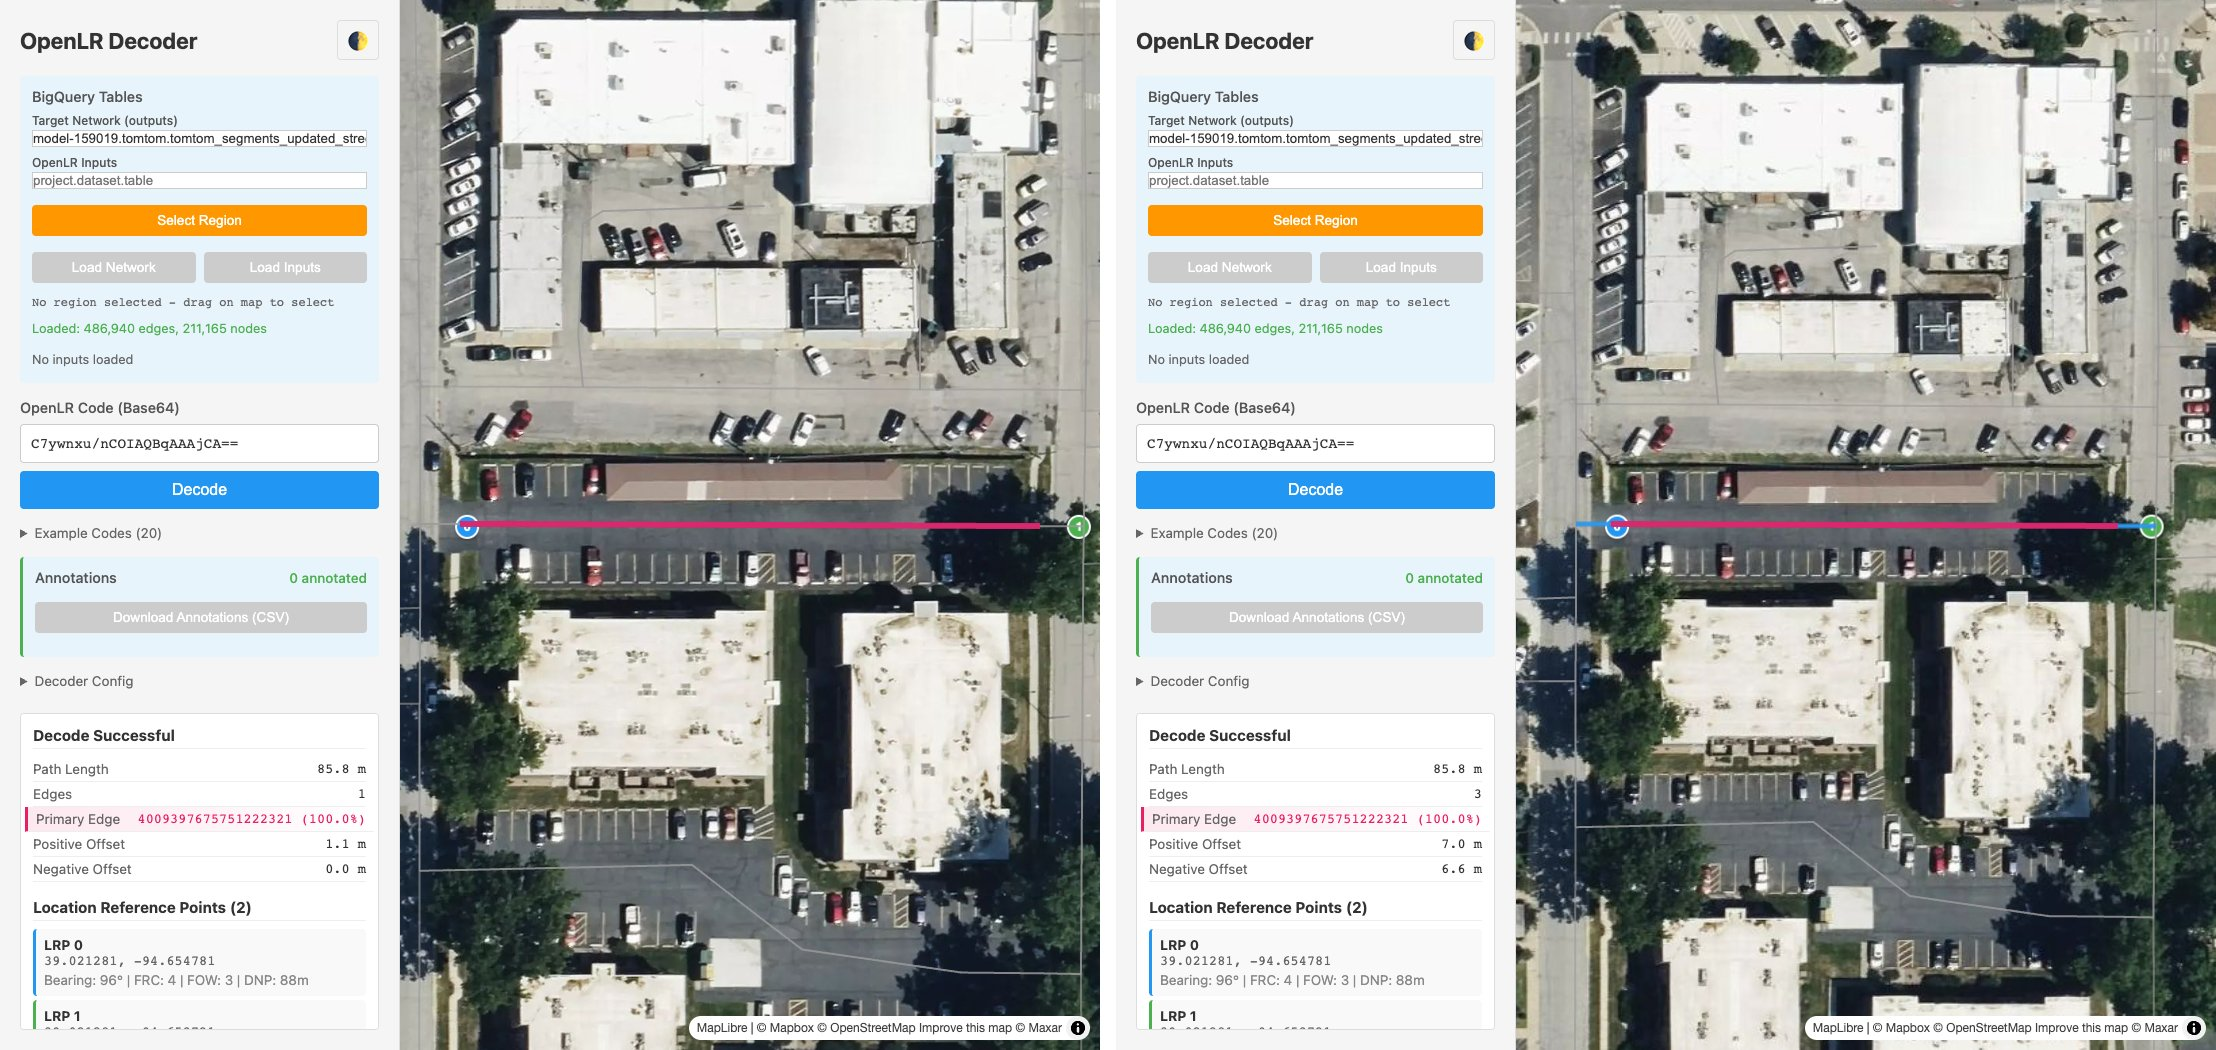
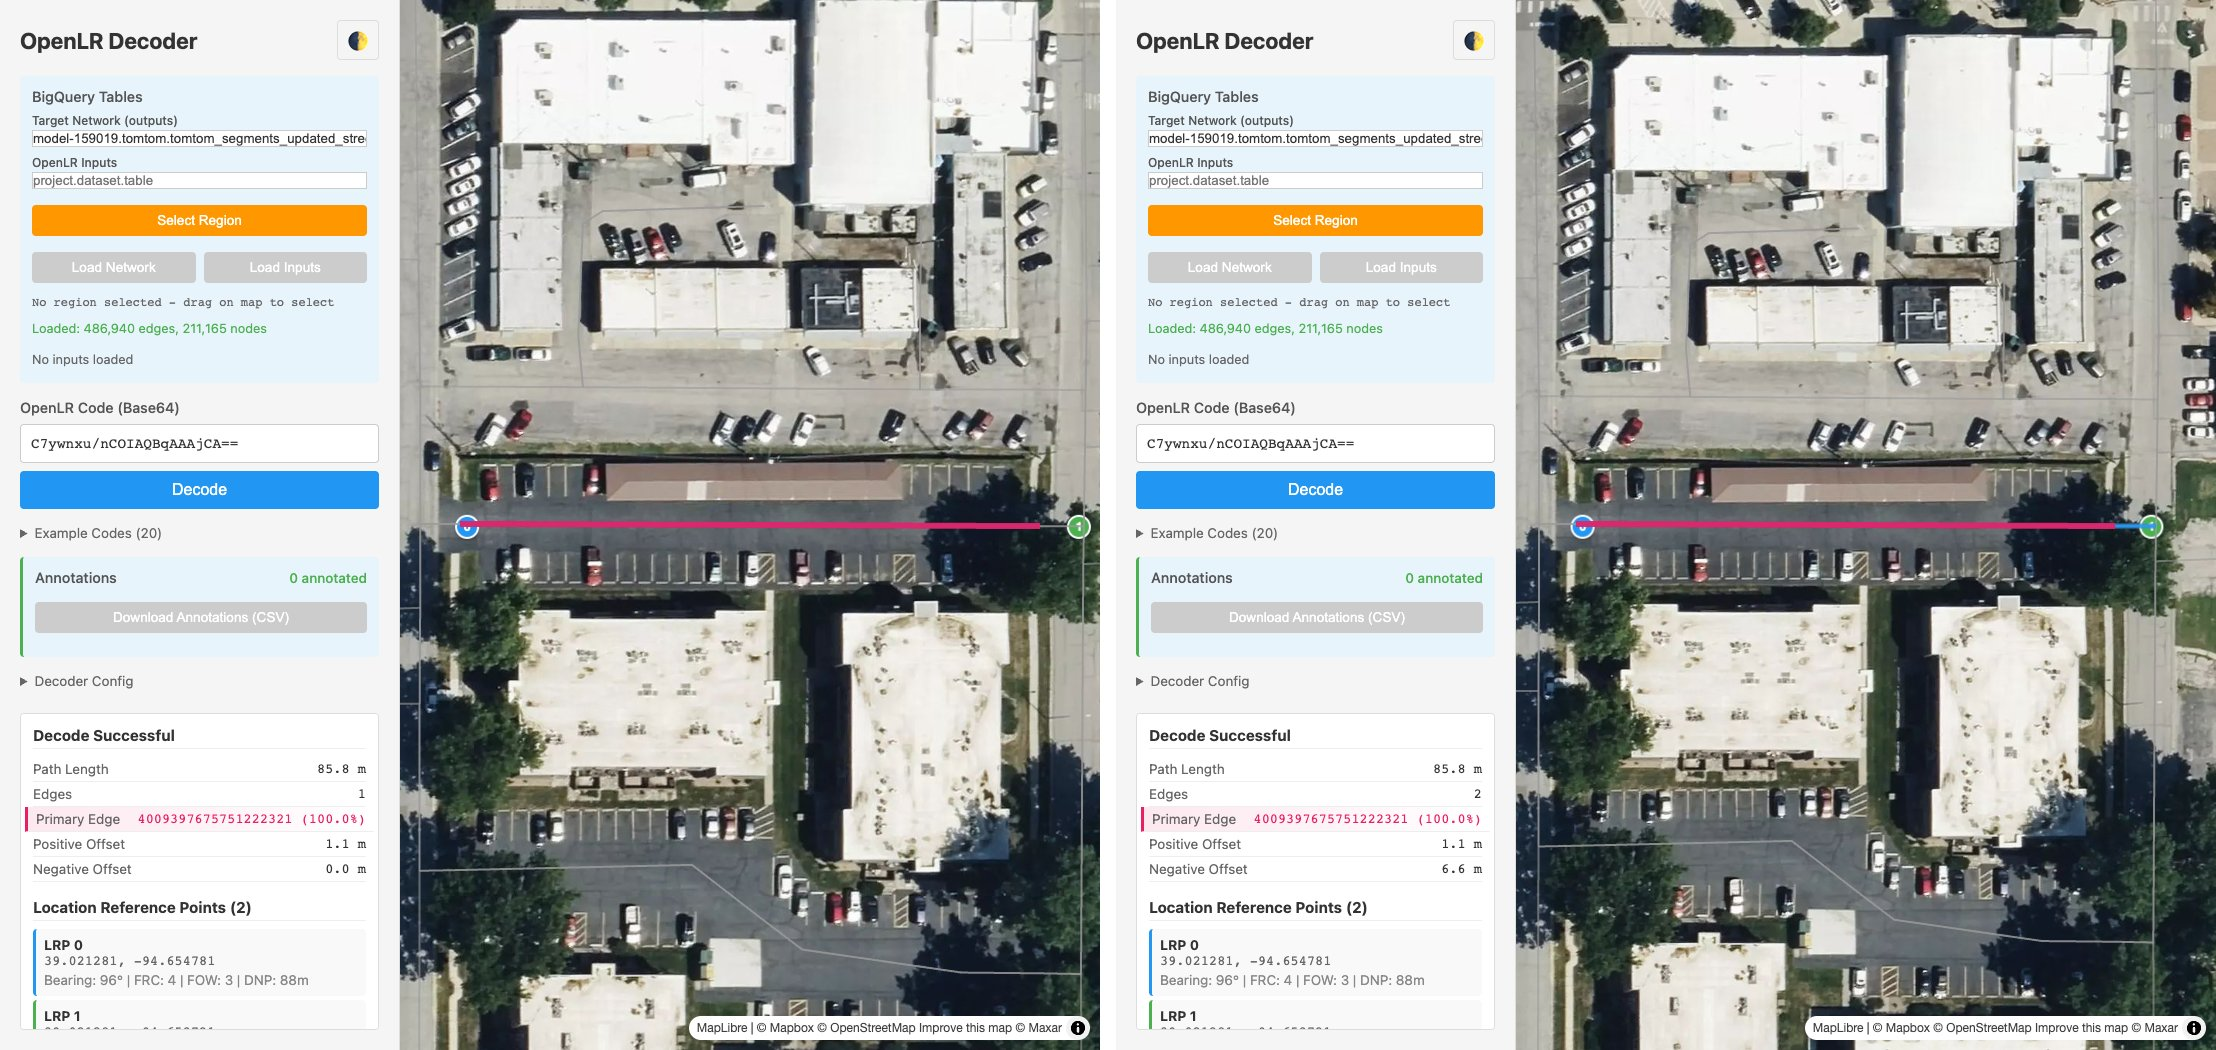
Only snap when the LRP is closer to the new terminal node
Guards the Rule 4 extension against topology asymmetry: when HERE has a
junction our OSM car graph lacks, the LRP sits on what looks to us like
a through-node and extending would overshoot it. Extending only if the
LRP coordinate is nearer the new node than the current one fixes that.

Measured against HERE reference endpoints on the KC corpus (1,257
unguarded extensions): all 704 extensions landing within 5 m of HERE's
endpoint are kept, all 103 that overshot an already-correct node are
dropped, and 419 of 450 extensions moving away from a far-off endpoint
are dropped. 735 extensions remain (618 codes, 1.3%). Aggregate
Hausdorff/Fréchet and decode rate unchanged.

Claude-Session: https://claude.ai/code/session_0162LFLFpwXmgBzigVq8staf

Changed region(s): [[0.685, 0.0, 1.0, 1.0]]

diff --git a/src/decoder.rs b/src/decoder.rs
@@ -429,6 +429,8 @@ impl<'a> Decoder<'a> {
     /// node (Rule 4), the path is extended along the forced continuation to the first
     /// junction and the added length is folded into the corresponding offset, so the
     /// offset-trimmed geometry is unchanged while the edge set covers the whole link.
+    /// The extension is only applied if the LRP coordinate is closer to the new
+    /// terminal node than to the current one (see the guard below).
     fn finalize_path(
         &self,
         path: &mut Vec<EdgeIndex>,
@@ -462,14 +464,37 @@ impl<'a> Decoder<'a> {
             })
             .unwrap_or(0.0);
 
+        // Guard against topology asymmetry (HERE has a junction our OSM car graph
+        // lacks, so a real LRP node looks like a through-node to us): only extend if
+        // the LRP itself is closer to the new terminal node than to the current one.
+        // In genuine stop-short cases the LRP sits at the junction we extend to.
+        let lrp_prefers =
+            |lrp: Point<f64>, old_node: Option<NodeIndex>, new_node: Option<NodeIndex>| match (
+                old_node.and_then(|n| self.network.node(n)),
+                new_node.and_then(|n| self.network.node(n)),
+            ) {
+                (Some(old), Some(new)) => {
+                    lrp.haversine_distance(&new.coord) < lrp.haversine_distance(&old.coord)
+                }
+                _ => false,
+            };
+
         if let Some((tail, added_m)) = self.forward_extension(path, self.snap_cap_m(last_segment)) {
-            path.extend(tail);
-            negative_offset_m += added_m;
+            let old_node = path.last().and_then(|&e| self.network.edge_target(e));
+            let new_node = tail.last().and_then(|&e| self.network.edge_target(e));
+            if lrp_prefers(last_lrp_coord, old_node, new_node) {
+                path.extend(tail);
+                negative_offset_m += added_m;
+            }
         }
         if let Some((head, added_m)) = self.backward_extension(path, self.snap_cap_m(first_segment))
         {
-            path.splice(0..0, head);
-            positive_offset_m += added_m;
+            let old_node = path.first().and_then(|&e| self.network.edge_source(e));
+            let new_node = head.first().and_then(|&e| self.network.edge_source(e));
+            if lrp_prefers(first_lrp_coord, old_node, new_node) {
+                path.splice(0..0, head);
+                positive_offset_m += added_m;
+            }
         }
 
         let frac = |offset_m: f64, edge_idx: Option<&EdgeIndex>| {
@@ -2019,14 +2044,15 @@ mod tests {
         let (network, spatial) = snap_network();
         let decoder = Decoder::new(&network, &spatial);
 
-        // Path e1,e2 ends at N3 (invalid). Last LRP sits at the end of e2.
+        // Path e1,e2 ends at N3 (invalid). Per Rule 4 the encoder placed the last
+        // LRP at the junction N4, 15m further on — our path stopped short.
         let mut path = vec![edge_by_id(&network, 1), edge_by_id(&network, 2)];
         let n1 = network
             .node(network.edge_source(path[0]).unwrap())
             .unwrap()
             .coord;
-        let n3 = network
-            .node(network.edge_target(path[1]).unwrap())
+        let n4 = network
+            .node(network.edge_target(edge_by_id(&network, 3)).unwrap())
             .unwrap()
             .coord;
         let seg = SegmentInfo {
@@ -2034,7 +2060,7 @@ mod tests {
             expected_m: 200.0,
         };
 
-        let offsets = decoder.finalize_path(&mut path, n1, n3, seg, seg);
+        let offsets = decoder.finalize_path(&mut path, n1, n4, seg, seg);
 
         assert_eq!(
             ids(&network, &path),
@@ -2061,8 +2087,8 @@ mod tests {
             .node(network.edge_source(path[0]).unwrap())
             .unwrap()
             .coord;
-        let n3 = network
-            .node(network.edge_target(path[1]).unwrap())
+        let n4 = network
+            .node(network.edge_target(edge_by_id(&network, 3)).unwrap())
             .unwrap()
             .coord;
         let seg = SegmentInfo {
@@ -2070,7 +2096,7 @@ mod tests {
             expected_m: 200.0,
         };
 
-        let offsets = decoder.finalize_path(&mut path, n1, n3, seg, seg);
+        let offsets = decoder.finalize_path(&mut path, n1, n4, seg, seg);
         assert_eq!(ids(&network, &path), vec![1, 2]);
         assert!(offsets.negative_offset_m.abs() < 1e-6);
     }
@@ -2084,8 +2110,8 @@ mod tests {
             .node(network.edge_source(path[0]).unwrap())
             .unwrap()
             .coord;
-        let n3 = network
-            .node(network.edge_target(path[1]).unwrap())
+        let n4 = network
+            .node(network.edge_target(edge_by_id(&network, 3)).unwrap())
             .unwrap()
             .coord;
 
@@ -2094,7 +2120,7 @@ mod tests {
             length_m: 200.0,
             expected_m: 100.0,
         };
-        decoder.finalize_path(&mut path, n1, n3, short_dnp, short_dnp);
+        decoder.finalize_path(&mut path, n1, n4, short_dnp, short_dnp);
         assert_eq!(ids(&network, &path), vec![1, 2]);
 
         // Segment already at max_valid_distance (DNP 200 → max 300) → no headroom
@@ -2102,7 +2128,7 @@ mod tests {
             length_m: 295.0,
             expected_m: 200.0,
         };
-        decoder.finalize_path(&mut path, n1, n3, no_headroom, no_headroom);
+        decoder.finalize_path(&mut path, n1, n4, no_headroom, no_headroom);
         assert_eq!(ids(&network, &path), vec![1, 2]);
     }
 
@@ -2119,15 +2145,15 @@ mod tests {
             .node(network.edge_source(path[0]).unwrap())
             .unwrap()
             .coord;
-        let n3 = network
-            .node(network.edge_target(path[1]).unwrap())
+        let n4 = network
+            .node(network.edge_target(edge_by_id(&network, 3)).unwrap())
             .unwrap()
             .coord;
         let seg = SegmentInfo {
             length_m: 200.0,
             expected_m: 200.0,
         };
-        decoder.finalize_path(&mut path, n1, n3, seg, seg);
+        decoder.finalize_path(&mut path, n1, n4, seg, seg);
         assert_eq!(ids(&network, &path), vec![1, 2]);
     }
 
@@ -2136,12 +2162,11 @@ mod tests {
         let (network, spatial) = snap_network();
         let decoder = Decoder::new(&network, &spatial);
 
-        // Path e4 starts at N4 (valid). Path e3,e4? e3 starts at N3 (invalid) and
-        // its forced predecessor is e2 (100m) — too long for the cap. Use a small
-        // cap-friendly case instead: path starting at N3 with a big DNP.
+        // Path e3,e4 starts at N3 (invalid); its forced predecessor e2 (100m) leads
+        // back to the junction N2, where the first LRP sits. Needs a generous cap.
         let mut path = vec![edge_by_id(&network, 3), edge_by_id(&network, 4)];
-        let n3 = network
-            .node(network.edge_source(path[0]).unwrap())
+        let n2 = network
+            .node(network.edge_source(edge_by_id(&network, 2)).unwrap())
             .unwrap()
             .coord;
         let n5 = network
@@ -2158,7 +2183,7 @@ mod tests {
             expected_m: 1500.0, // 10% = 150m ≥ 100m
         };
 
-        let offsets = decoder.finalize_path(&mut path, n3, n5, seg, seg);
+        let offsets = decoder.finalize_path(&mut path, n2, n5, seg, seg);
         assert_eq!(
             ids(&network, &path),
             vec![2, 3, 4],
@@ -2167,6 +2192,32 @@ mod tests {
         assert!((offsets.positive_offset_m - 100.0).abs() < 1e-6);
         assert!((offsets.positive_offset_fraction - 1.0).abs() < 1e-6);
         // End N5 is a sink (valid) — untouched.
+        assert!(offsets.negative_offset_m.abs() < 1e-6);
+    }
+
+    #[test]
+    fn test_snap_skipped_when_lrp_sits_on_through_node() {
+        // Same as test_snap_extends_end_to_valid_node..., but the last LRP is placed
+        // at N3 (the through-node) rather than at the junction N4. This models HERE
+        // having a junction at N3 that our OSM car graph lacks: extending would
+        // overshoot the LRP, so the guard must leave the path alone.
+        let (network, spatial) = snap_network();
+        let decoder = Decoder::new(&network, &spatial);
+        let mut path = vec![edge_by_id(&network, 1), edge_by_id(&network, 2)];
+        let n1 = network
+            .node(network.edge_source(path[0]).unwrap())
+            .unwrap()
+            .coord;
+        let n3 = network
+            .node(network.edge_target(path[1]).unwrap())
+            .unwrap()
+            .coord;
+        let seg = SegmentInfo {
+            length_m: 200.0,
+            expected_m: 200.0,
+        };
+        let offsets = decoder.finalize_path(&mut path, n1, n3, seg, seg);
+        assert_eq!(ids(&network, &path), vec![1, 2], "LRP at N3: no extension");
         assert!(offsets.negative_offset_m.abs() < 1e-6);
     }
 

diff --git a/CLAUDE.md b/CLAUDE.md
@@ -224,8 +224,11 @@ follows the forced continuation to the first junction (`RoadNetwork::is_valid_no
 `forced_continuation`, `forced_predecessor` in `graph.rs`; `finalize_path` in
 `decoder.rs`). The added length is folded into `positive_offset`/`negative_offset`,
 so the offset-trimmed geometry is unchanged — only the edge set grows. Extension is
-capped at `min(max_snap_extension_m, max_snap_extension_fraction × DNP)` and must
-keep the segment within the length tolerance. Because the offset then spans more
+capped at `min(max_snap_extension_m, max_snap_extension_fraction × DNP)`, must keep
+the segment within the length tolerance, and is only applied when the LRP coordinate is
+closer to the new terminal node than to the current one — this guards against HERE
+having a junction our OSM car graph lacks (measured on the KC corpus: the guard removed
+all ~100 such overshoots while keeping every extension that landed on HERE's endpoint). Because the offset then spans more
 than one edge, `*_offset_fraction` (relative to the first/last edge) can exceed 1.0;
 the meter offsets are authoritative.
 
